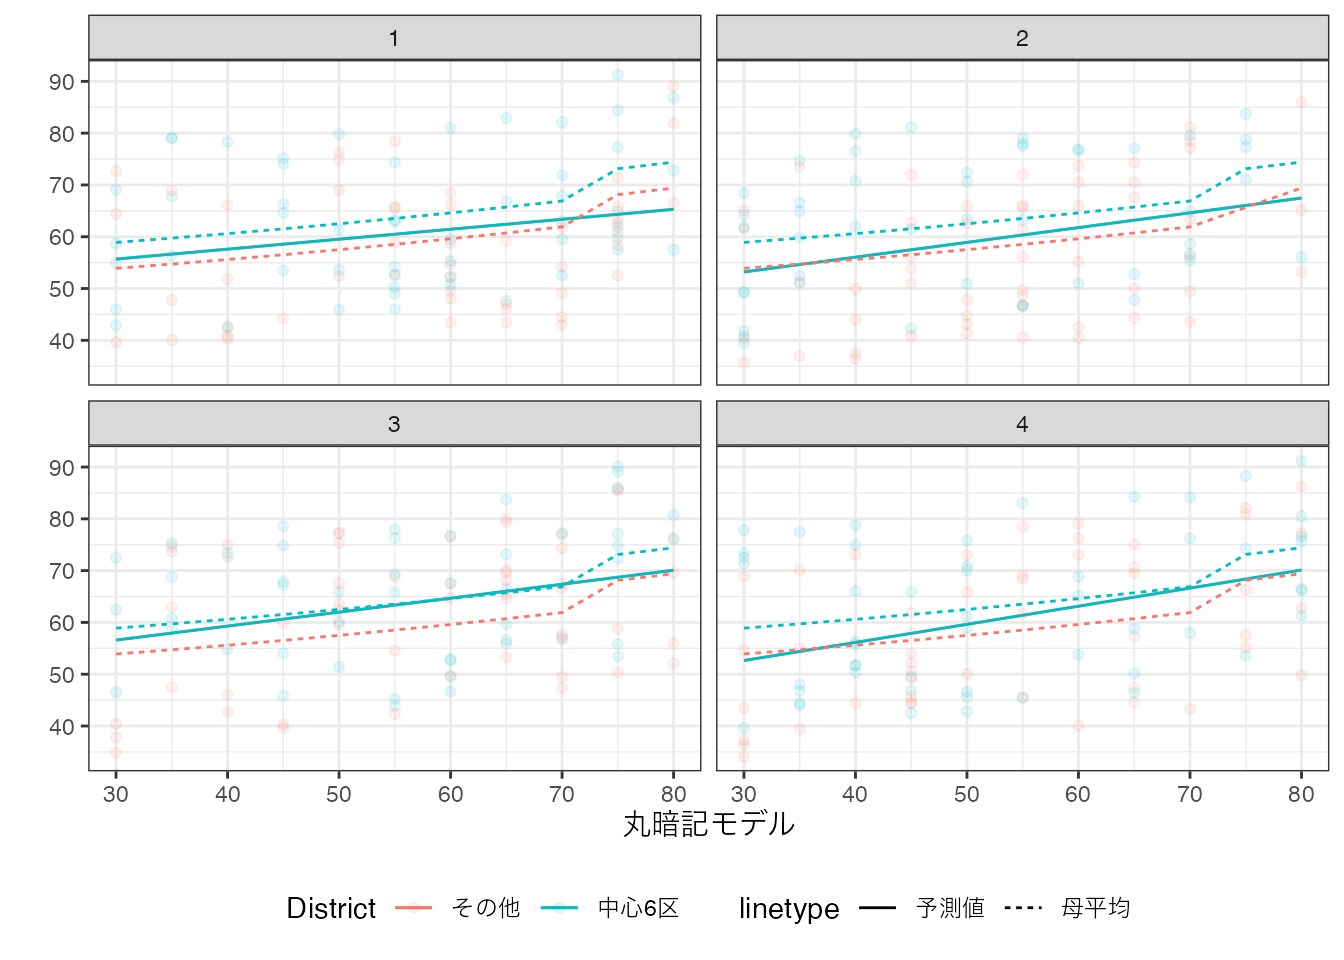
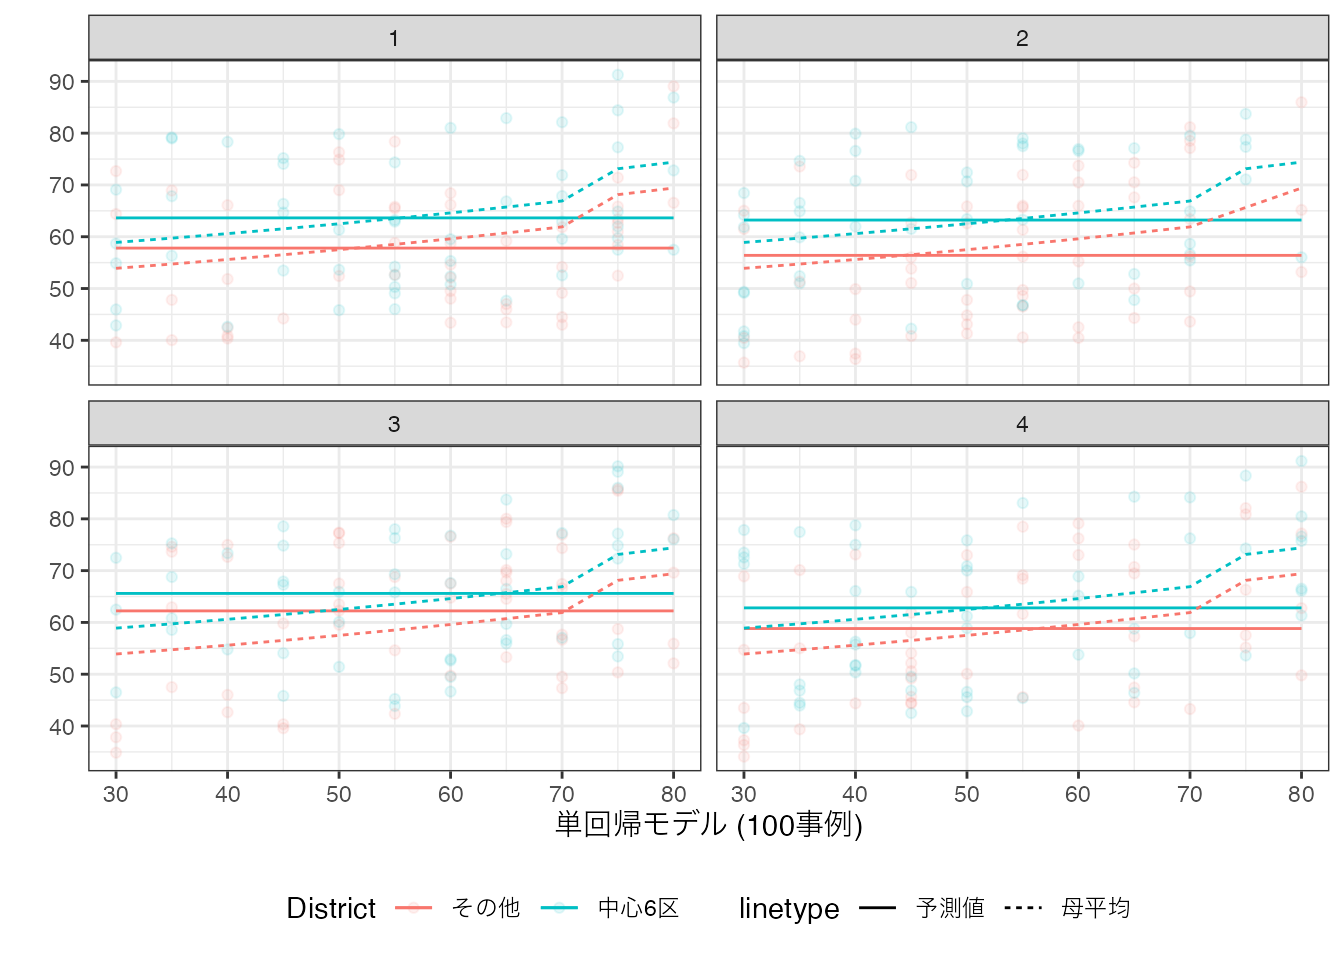
Update prediction

diff --git a/docs/prediction.html b/docs/prediction.html
@@ -199,7 +199,11 @@ window.Quarto = {
   <li><a href="#ols" id="toc-ols" class="nav-link" data-scroll-target="#ols"><span class="header-section-number">4.2.3</span> OLS</a></li>
   <li><a href="#lasso" id="toc-lasso" class="nav-link" data-scroll-target="#lasso"><span class="header-section-number">4.2.4</span> LASSO</a></li>
   </ul></li>
-  <li><a href="#事例数の拡大" id="toc-事例数の拡大" class="nav-link" data-scroll-target="#事例数の拡大"><span class="header-section-number">4.3</span> 事例数の拡大</a></li>
+  <li><a href="#推定値の性質" id="toc-推定値の性質" class="nav-link" data-scroll-target="#推定値の性質"><span class="header-section-number">4.3</span> 推定値の性質</a>
+  <ul class="collapse">
+  <li><a href="#事例数の拡大" id="toc-事例数の拡大" class="nav-link" data-scroll-target="#事例数の拡大"><span class="header-section-number">4.3.1</span> 事例数の拡大</a></li>
+  <li><a href="#予測性能の測定" id="toc-予測性能の測定" class="nav-link" data-scroll-target="#予測性能の測定"><span class="header-section-number">4.3.2</span> 予測性能の測定</a></li>
+  </ul></li>
   <li><a href="#まとめ" id="toc-まとめ" class="nav-link" data-scroll-target="#まとめ"><span class="header-section-number">4.4</span> まとめ</a></li>
   <li><a href="#reference" id="toc-reference" class="nav-link" data-scroll-target="#reference"><span class="header-section-number">4.5</span> Reference</a></li>
   </ul>
@@ -286,7 +290,7 @@ window.Quarto = {
 <p>単純平均と丸暗記ほうの中間的なモデルを推定する代表的な方法は、線型モデルを最小二乗法 (OLS) で推定する方法です。</p>
 <section id="ysim-size" class="level4" data-number="4.2.3.1">
 <h4 data-number="4.2.3.1" class="anchored" data-anchor-id="ysim-size"><span class="header-section-number">4.2.3.1</span> <span class="math inline">\(Y\sim Size\)</span></h4>
-<p>最もシンプルな線型モデルとして、例えば以下を推定してみます。 <span class="math display">\[予測値 = \beta_0 + \beta_1\times Size\]</span> <span class="math inline">\(\beta_0,\beta_1\)</span> は、以下のデータ上の平均二乗誤差を最小化するように推定します。<span class="math display">\[(Y - 予測値)^2 のデータ上の平均\]</span></p>
+<p>最もシンプルな線型モデルとして、例えば以下を推定してみます。 <span class="math display">\[予測値 = \beta_0 + \beta_1\times District\]</span> <span class="math inline">\(\beta_0,\beta_1\)</span> は、以下のデータ上の平均二乗誤差を最小化するように推定します。<span class="math display">\[(Y - 予測値)^2 のデータ上の平均\]</span></p>
 <p>推定結果を図示すると、以下となります。</p>
 <div class="cell">
 <div class="cell-output-display">
@@ -297,8 +301,8 @@ window.Quarto = {
 </div>
 </div>
 </div>
-<p>単純平均とは異なり、Sizeが大きいと、平均取引価格が高くなる傾向を捉えるモデルが推定されています。 丸暗記法と比べると、分析者間での予測値のばらつきが減少しています。 これは、丸暗記法と比べて、事例の要約が機能していることを表しています。</p>
-<p>しかしながら、予測モデルは母平均よりも以前単純すぎます。 特にDistrictに応じて、平均価格が異なるという性質を捉えきれていません。</p>
+<p>単純平均とは異なり、中心６区の物件は、平均取引価格が高くなる傾向を捉えるモデルが推定されています。 丸暗記法と比べると、分析者間での予測値のばらつきが減少しています。 これは、丸暗記法と比べて、事例の要約が機能していることを表しています。</p>
+<p>しかしながら母平均に比べると、以前単純すぎます。 特にSizeに応じて、平均価格が異なるという性質を捉えきれていません。 言い換えると単純平均に近すぎるモデルになっています。</p>
 </section>
 <section id="ysim-size-district" class="level4" data-number="4.2.3.2">
 <h4 data-number="4.2.3.2" class="anchored" data-anchor-id="ysim-size-district"><span class="header-section-number">4.2.3.2</span> <span class="math inline">\(Y\sim Size + District\)</span></h4>
@@ -317,7 +321,7 @@ window.Quarto = {
 </section>
 <section id="ysim-size-size2-..-size6-district" class="level4" data-number="4.2.3.3">
 <h4 data-number="4.2.3.3" class="anchored" data-anchor-id="ysim-size-size2-..-size6-district"><span class="header-section-number">4.2.3.3</span> <span class="math inline">\(Y\sim (Size + Size^2 + .. + Size^6) * District\)</span></h4>
-<p>母平均が持つ複雑な性質を捉えるために、さらに複雑なモデルを推定してみます。 <span class="math display">\[予測値 = \beta_0 + \beta_1 Size +..+\beta_6Size^6+\beta_7District\]</span> <span class="math display">\[+\beta_8 Size\times District +..+\beta_{14}Size^6\times District\]</span> このような複雑なモデルであったとしても、データへの適合度を最大化するように推定できます。 ただし、複雑すぎると母平均から乖離してしまいます。</p>
+<p>母平均が持つ複雑な性質を捉えるために、交差効果と高次項を導入し、さらに複雑なモデルを推定してみます。 <span class="math display">\[予測値 = \beta_0 + \beta_1 Size+\beta_7District + \underbrace{\beta_2Size^2 +..+\beta_6Size^6}_{高次項}\]</span> <span class="math display">\[+\underbrace{\beta_8 Size\times District +..+\beta_{14}Size^6\times District}_{交差効果}\]</span> このような複雑なモデルであったとしても、データへの適合度を最大化するように推定できます。 ただし、複雑すぎると母平均から乖離してしまいます。</p>
 <div class="cell">
 <div class="cell-output-display">
 <div>
@@ -328,10 +332,27 @@ window.Quarto = {
 </div>
 </div>
 <p>複雑なモデルを最小二乗法で推定すると、よりデータへの適合度を改善し、データ上の平均値に近づけることができます。 このことは、必ずしも望ましいとはいえません。 なぜならば、丸暗記法により推定されたモデルに近づくからです。 すなわち少数の事例しかない<span class="math inline">\(X\)</span>の組み合わせについては、丸暗記法と同様に母平均から乖離し、予測性能が悪化します。</p>
+<p>線型モデルを複雑にしすぎると丸暗記モデルになり、単純化しすぎると単純平均モデルとなります。 この中間的なモデルが予測性能が高いことが多いですが、分析者がそのようなモデルを適切に設定することは困難です。 機械学習では、この問題に対して、データに基づく解決策を提案しています。</p>
 </section>
 </section>
 <section id="lasso" class="level3" data-number="4.2.4">
 <h3 data-number="4.2.4" class="anchored" data-anchor-id="lasso"><span class="header-section-number">4.2.4</span> LASSO</h3>
+<p>適切な単純さをもつモデルを推定する方法として、LASSOを紹介します。 LASSOは、罰則付き回帰と呼ばれる枠組みの一つの手法です。 OLSと同様に線型予測モデルを推定しますが、データへの当てはまりだけでなく、モデルの複雑性も抑制することも目指します。</p>
+<p>例えば、以下のモデルを推定します。<span class="math display">\[予測値 = \beta_0 + \beta_1 Size+\beta_7District + \underbrace{\beta_2Size^2 +..+\beta_6Size^6}_{高次項}\]</span> <span class="math display">\[+\underbrace{\beta_8 Size\times District +..+\beta_{14}Size^6\times District}_{交差効果}\]</span> <span class="math inline">\(\beta\)</span> の値は、以下を最小化するように決定します。 <span class="math display">\[(Y - 予測値)^2 のデータ上の平均\]</span> <span class="math display">\[+ \underbrace{\lambda}_{Tunning\ Parameter} (\beta_1の絶対値 +..)\]</span> <span class="math inline">\(\lambda\)</span> は、データへの当てはまりではなく、モデルの予測性能を高めるように決定します。 具体的には、交差検証を用いる方法、情報基準などの理論的な評価指標を用いる方法があります。</p>
+<div class="callout callout-style-default callout-note callout-titled">
+<div class="callout-header d-flex align-content-center">
+<div class="callout-icon-container">
+<i class="callout-icon"></i>
+</div>
+<div class="callout-title-container flex-fill">
+Note
+</div>
+</div>
+<div class="callout-body-container callout-body">
+<p><span class="math inline">\(\lambda\)</span> は、<span class="math inline">\(\beta\)</span> と異なり、データへの当てはまりを最大化するように決定できません。 なぜでしょうか？</p>
+</div>
+</div>
+<p><span class="math inline">\(\lambda\)</span> に応じて、予測モデルがどのように変化するのか考えてみます。 <span class="math inline">\(\lambda\)</span> を変化させることで、予測モデルは、単純平均と丸暗記の間で変化することになります。 <span class="math inline">\(\lambda=0\)</span> であれば、OLSと全く同じモデルを推定します。 よって、複雑な線型モデルを推定した場合は丸暗記モデルに近いモデルとなります。 <span class="math inline">\(\lambda\)</span> を非常に大きい値を設定した場合、<span class="math inline">\(\beta_1=\beta_2=..= 0\)</span> となります。 この場合は<span class="math inline">\(\beta_0\)</span>をデータに当てはまるように推定することになり、単純平均と一致します。</p>
 <div class="cell">
 <div class="cell-output-display">
 <div>
@@ -341,10 +362,15 @@ window.Quarto = {
 </div>
 </div>
 </div>
+<p>分析者1と3については、DistrictとSizeについて、直線のモデルが推定されています。 分析者2,4については、District共通の予測値が推定されています。</p>
+<p>以上から全ての分析者について、モデルが単純化されていることが確認できます。 ただし単純化の方法は、かなり異なっており、データに強く依存していることが確認できます。 これは事例数の少なさ (100事例)が大きな影響を与えています。</p>
 </section>
 </section>
-<section id="事例数の拡大" class="level2" data-number="4.3">
-<h2 data-number="4.3" class="anchored" data-anchor-id="事例数の拡大"><span class="header-section-number">4.3</span> 事例数の拡大</h2>
+<section id="推定値の性質" class="level2" data-number="4.3">
+<h2 data-number="4.3" class="anchored" data-anchor-id="推定値の性質"><span class="header-section-number">4.3</span> 推定値の性質</h2>
+<section id="事例数の拡大" class="level3" data-number="4.3.1">
+<h3 data-number="4.3.1" class="anchored" data-anchor-id="事例数の拡大"><span class="header-section-number">4.3.1</span> 事例数の拡大</h3>
+<p>推定結果は、一般に事例数に強く影響を受けます。 以下の数値例では、事例数を100事例から50000事例まで増やし、 <span class="math inline">\(Y\sim Size + District\)</span> をOLSで、<span class="math inline">\(Y\sim (Size + Size^2 + .. + Size^6) * District\)</span> をLASSOで推定しています。</p>
 <div class="cell">
 <div class="cell-output-display">
 <div>
@@ -354,6 +380,14 @@ window.Quarto = {
 </div>
 </div>
 </div>
+<p>上記結果は、事例数が拡大すると、分析者間での推定結果のばらつきが大きく減少していることが確認できます。 これは多くの推定方法で成り立つ性質であり、大規模な事例を集計すると、データの違いによる結果のばらつきが抑制されます。</p>
+<p>母平均の近似については、複雑なモデルにLASSOを適用した推定結果が、単純なモデルにOLSを適用した結果を大きく上回っています。 単純なモデルは、分析者が設定するモデルに推定結果が大きく制約されており、事例数増加の恩恵が十分に得られません。 対してLASSOは、データ主導でモデルの複雑性の調整が行われるので、事例数が増えると、それに応じて複雑なモデルが推定できます。</p>
+</section>
+<section id="予測性能の測定" class="level3" data-number="4.3.2">
+<h3 data-number="4.3.2" class="anchored" data-anchor-id="予測性能の測定"><span class="header-section-number">4.3.2</span> 予測性能の測定</h3>
+<p>予測を目指す分析では、推定された予測モデルの性能を評価することが重要となります。 現状、幅広いデータや状況において、高い予測性能を生み出す方法は存在しません。 このため複数の予測モデルを”試作”し、その性能を比較することが分析工程に組み込まれています。</p>
+<p>最もシンプルな評価方法は、サンプル分割です。 データをランダムに訓練データとテストデータに分割し、訓練データのみでモデルを試作し、テストデータへの当てはまりを(平均二乗誤差などで)評価します。 訓練/テスト間での事例数の比率については、8:2や95:5が(経験則として)推奨されることが多いです。</p>
+</section>
 </section>
 <section id="まとめ" class="level2" data-number="4.4">
 <h2 data-number="4.4" class="anchored" data-anchor-id="まとめ"><span class="header-section-number">4.4</span> まとめ</h2>
